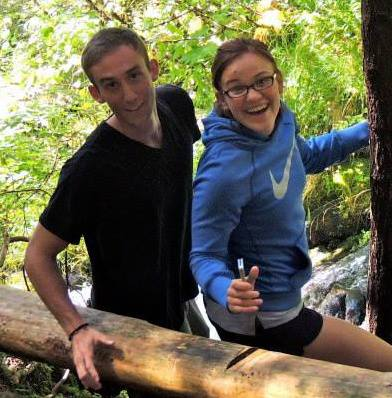
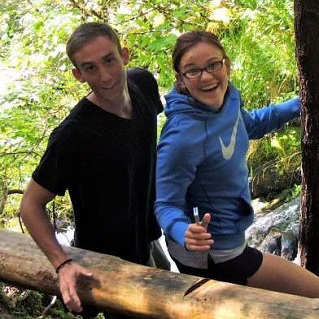
Meet the Band - Mobile Responsive
Made the entire page responsive and took away the fixed width/height on
the photos.

diff --git a/band_project/templates/meet.html b/band_project/templates/meet.html
@@ -4,10 +4,7 @@
     {
         padding-bottom: .5em;
     }
-    .img-responsive{
-        height:319px;
-        width:319px;
-    }
+
 {% endblock %}
 
 {% block content %}
@@ -17,34 +14,34 @@
         </div>
         <hr style="margin-top:0;" />
         <div class="row" style="margin-top:50px;">
-            <div class="col-xs-4 text-center ">
-                <img class="img-responsive" src="{{ STATIC_URL }}band_members/ryan.jpg" alt=""/>
+            <div class="col-sm-4 col-xs-12 text-center ">
+                <img class="img-responsive center-block" src="{{ STATIC_URL }}band_members/ryan.jpg" alt=""/>
                 <h2 class="text-center">Ryan Batchelder</h2>
                 <p>Lorem ipsum dolor sit amet, consectetur adipiscing elit. Praesent mollis magna quis porta auctor. Vivamus condimentum fermentum diam non venenatis. Proin egestas nibh id odio molestie, dignissim ultrices mauris eleifend. Quisque auctor consectetur porttitor. Pellentesque habitant morbi tristique senectus et netus et malesuada fames ac turpis egestas. Nunc suscipit eros nunc, eu maximus nibh rutrum eget. Nullam posuere laoreet neque, non eleifend est vehicula non. Praesent venenatis risus non dapibus dapibus. Vestibulum nec diam bibendum, vulputate elit in, gravida diam.</p>
             </div>
-            <div  class="col-xs-4 text-center" >
+            <div  class="col-sm-4 col-xs-12 text-center" >
                 <a href="#" id="duke"></a>
-                <img class="img-responsive"src="{{ STATIC_URL }}band_members/duke.jpg" alt=""/>
+                <img class="img-responsive center-block" src="{{ STATIC_URL }}band_members/duke.jpg" alt=""/>
                 <h2  class="text-center">Duke Ayers</h2>
                 <p>Lorem ipsum dolor sit amet, consectetur adipiscing elit. Praesent mollis magna quis porta auctor. Vivamus condimentum fermentum diam non venenatis. Proin egestas nibh id odio molestie, dignissim ultrices mauris eleifend. Quisque auctor consectetur porttitor. Pellentesque habitant morbi tristique senectus et netus et malesuada fames ac turpis egestas. Nunc suscipit eros nunc, eu maximus nibh rutrum eget. Nullam posuere laoreet neque, non eleifend est vehicula non. Praesent venenatis risus non dapibus dapibus. Vestibulum nec diam bibendum, vulputate elit in, gravida diam.</p>
 
             </div>
-            <div class="col-xs-4 text-center ">
-                <img src="http://placehold.it/319x319" alt=""/>
+            <div class="col-sm-4 col-xs-12 text-center ">
+                <img class="img-responsive center-block" src="http://placehold.it/319x319" alt=""/>
                 <h2 class="text-center">Band Member</h2>
                 <p>Lorem ipsum dolor sit amet, consectetur adipiscing elit. Praesent mollis magna quis porta auctor. Vivamus condimentum fermentum diam non venenatis. Proin egestas nibh id odio molestie, dignissim ultrices mauris eleifend. Quisque auctor consectetur porttitor. Pellentesque habitant morbi tristique senectus et netus et malesuada fames ac turpis egestas. Nunc suscipit eros nunc, eu maximus nibh rutrum eget. Nullam posuere laoreet neque, non eleifend est vehicula non. Praesent venenatis risus non dapibus dapibus. Vestibulum nec diam bibendum, vulputate elit in, gravida diam.</p>
 
             </div>
         </div>
         <div class="row" style="margin-top:50px;">
-            <div class="col-xs-4 col-xs-offset-2 text-center ">
-                <img src="http://placehold.it/319x319" alt=""/>
+            <div class="col-sm-4 col-xs-12 col-sm-offset-2 text-center ">
+                <img class="img-responsive center-block" src="http://placehold.it/319x319" alt=""/>
                 <h2 class="text-center">Band Member</h2>
                 <p>Lorem ipsum dolor sit amet, consectetur adipiscing elit. Praesent mollis magna quis porta auctor. Vivamus condimentum fermentum diam non venenatis. Proin egestas nibh id odio molestie, dignissim ultrices mauris eleifend. Quisque auctor consectetur porttitor. Pellentesque habitant morbi tristique senectus et netus et malesuada fames ac turpis egestas. Nunc suscipit eros nunc, eu maximus nibh rutrum eget. Nullam posuere laoreet neque, non eleifend est vehicula non. Praesent venenatis risus non dapibus dapibus. Vestibulum nec diam bibendum, vulputate elit in, gravida diam.</p>
             </div>
-            <div class="col-xs-4 text-center ">
+            <div class="col-sm-4 col-xs-12 text-center ">
                 <a></a>
-                <img src="http://placehold.it/319x319" alt=""/>
+                <img class="img-responsive center-block" src="http://placehold.it/319x319" alt=""/>
                 <h2 class="text-center">Band Member</h2>
                 <p>Lorem ipsum dolor sit amet, consectetur adipiscing elit. Praesent mollis magna quis porta auctor. Vivamus condimentum fermentum diam non venenatis. Proin egestas nibh id odio molestie, dignissim ultrices mauris eleifend. Quisque auctor consectetur porttitor. Pellentesque habitant morbi tristique senectus et netus et malesuada fames ac turpis egestas. Nunc suscipit eros nunc, eu maximus nibh rutrum eget. Nullam posuere laoreet neque, non eleifend est vehicula non. Praesent venenatis risus non dapibus dapibus. Vestibulum nec diam bibendum, vulputate elit in, gravida diam.</p>
             </div>
